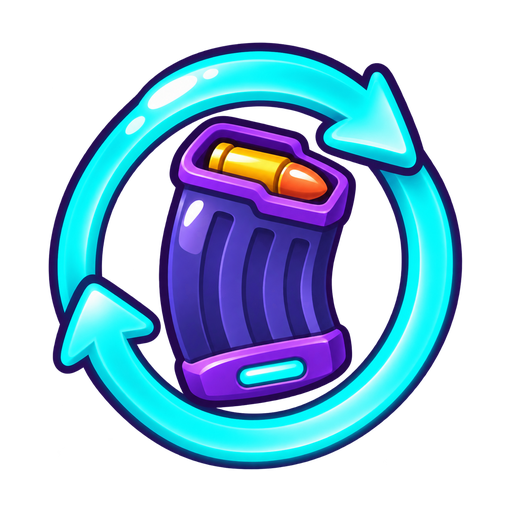
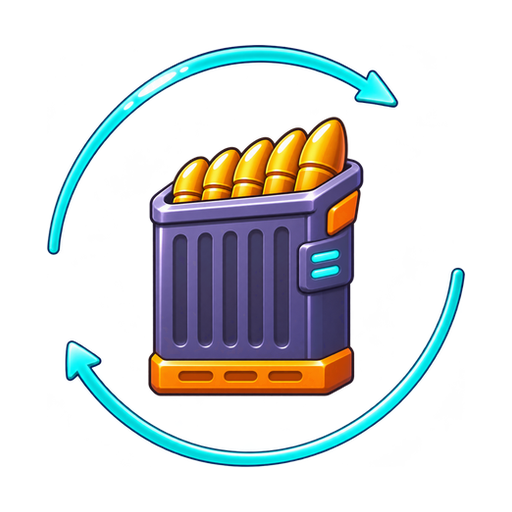
Plasma-Nachlademotiv mit geradem Magazin und dünnem Pfeilkreis aktualisieren

diff --git a/Vorlage_Raw/Kartenmotive_v2/LIESMICH_CLAUDE.md b/Vorlage_Raw/Kartenmotive_v2/LIESMICH_CLAUDE.md
@@ -6,4 +6,6 @@ Die Dateinamen entsprechen der Zuordnung aus `KARTENMOTIVE_FUER_CHATGPT.md`. Fü
 
 Die Raketensalve zeigt fünf schlanke Raketen in Violett, Goldorange und Cyan. Der Gewittersturm hat kantigere Wolkenformen bei gleicher Farbpalette. Die Dampfwalze hat eine einzelne Dampfwolke. Das goldene Nachlademotiv verwendet dasselbe gerade Magazin mit den sichtbaren Patronen wie `held_mag.png`. Das Magazin wurde proportional verkleinert und mit dem kräftigeren goldenen Ladepfeil kombiniert. Ein sichtbarer Spalt trennt beide Motive.
 
+Das Plasma-Nachlademotiv `plasma_reload.png` verwendet ebenfalls das gerade Magazin aus `held_mag.png`. Zwei dünne türkise Pfeile markieren den Plasma-Effekt und lassen Platz um das Magazin.
+
 Die räumliche Wirkung ist Teil der PNG-Illustration. Die 31 Motive wurden mit der eingebauten Bildgenerierung aus den Beschreibungen der Auftragsdatei und den bisherigen Kartenmotiven als Stilreferenzen erstellt.
